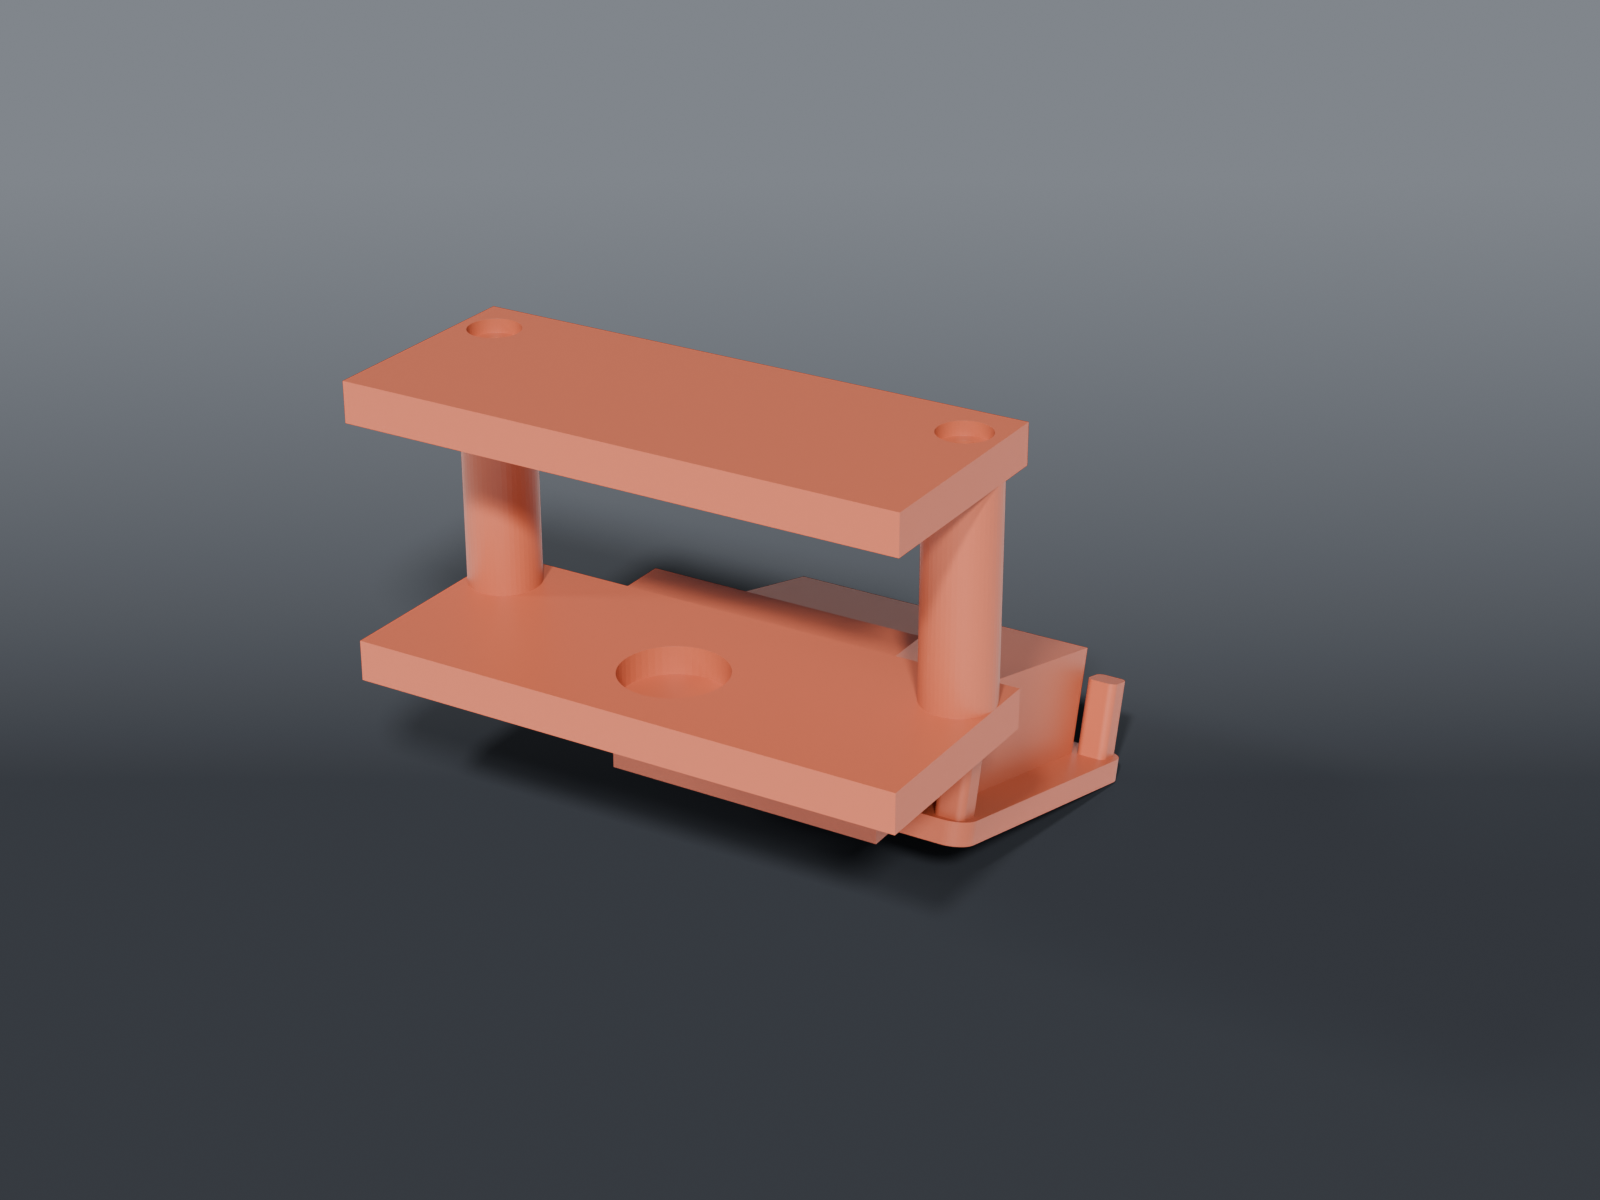
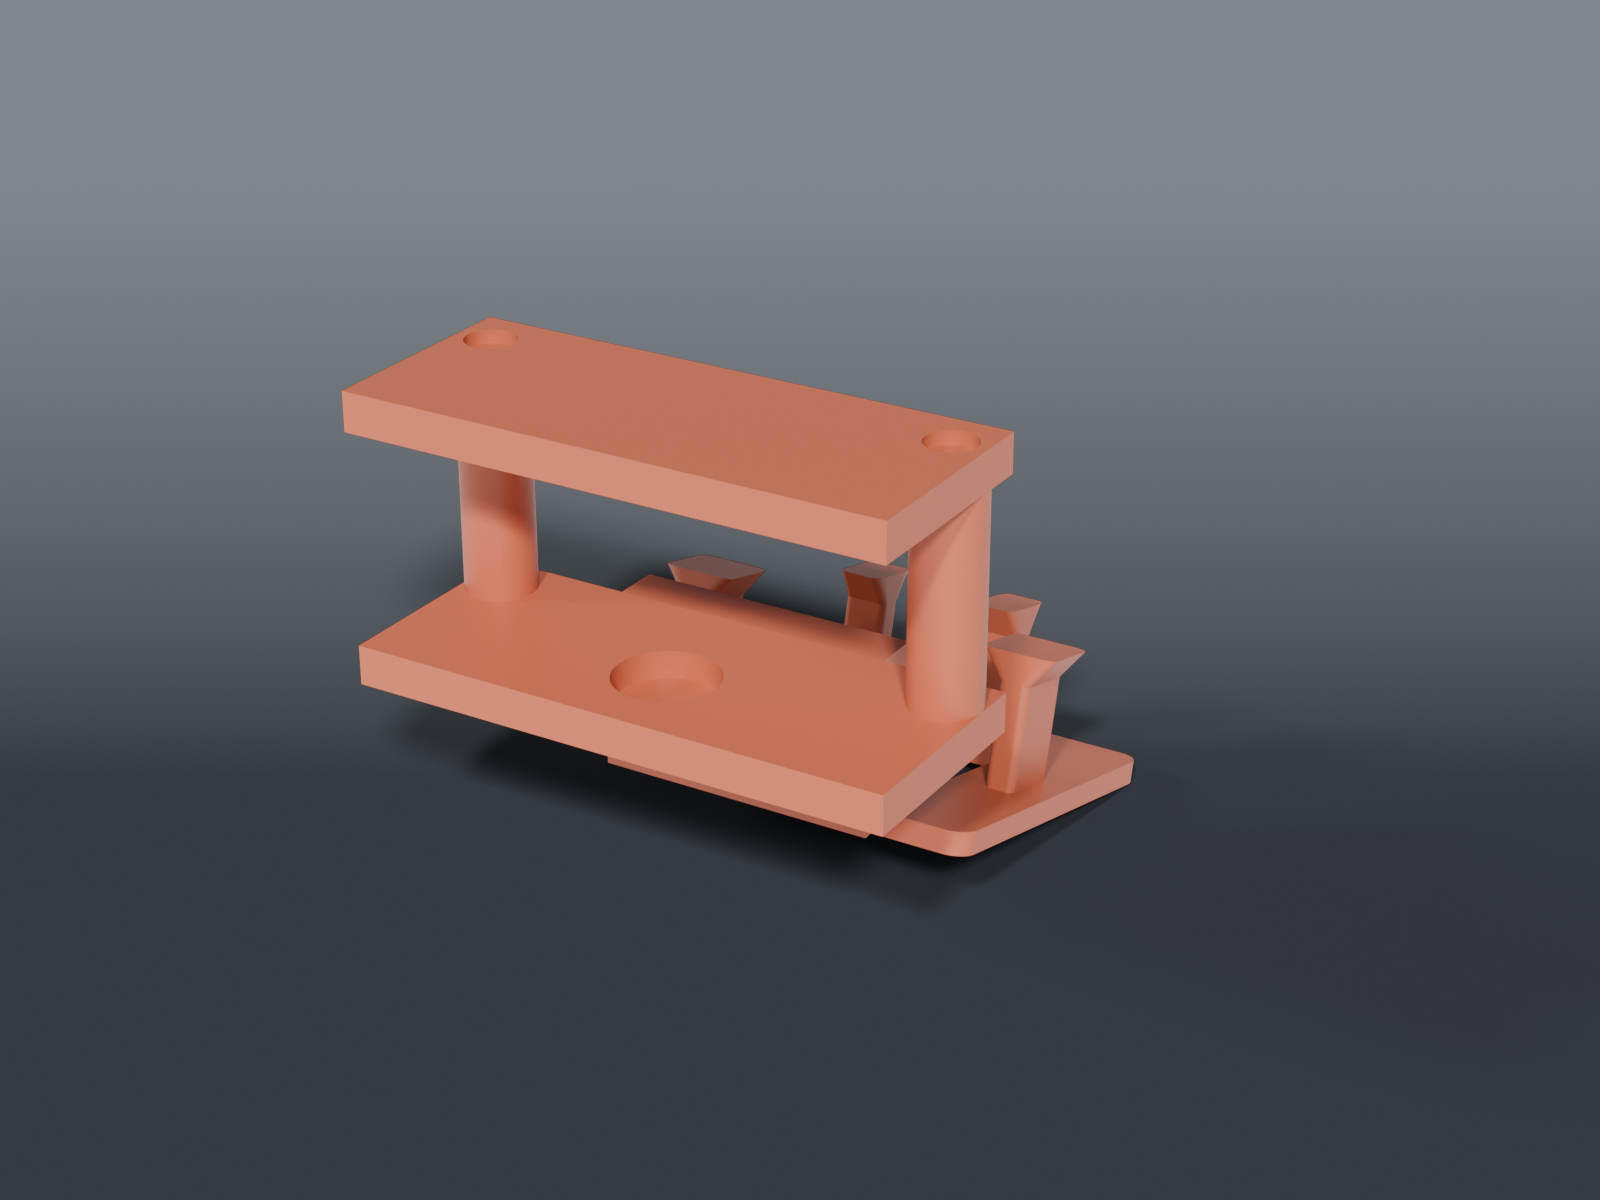
fix(thermal-cam-mount): retention pads on the edge flats, not the corners

diff --git a/thermal-cam-mount/README.md b/thermal-cam-mount/README.md
@@ -60,8 +60,23 @@ lead drop clear.
 |---|---|
 | Tray tilt | **14°** — the reference's 14.1°, rounded |
 | Lens window | 34 × 26 rounded rect |
-| Posts | 4 × 4 mm, 10 mm tall, at the pocket corners |
+| Retention pads | 5, at the **middle of each edge** — 2 × 10 mm long sides, 12 mm inboard, 2 × 6 mm outboard |
+| Pocket clearance | 0.2 mm total, ~0.1 per side |
 | Plug notch | 14 mm, outboard border |
+
+## Print the coupon first
+
+`coupons/cam_fit_coupon.scad` is the tray alone — flat on the bed, no arm, no clamp plates. ~8 g
+against 14 g and four hours for the real mount. Drop the camera in: it should take light thumb
+pressure to seat and stay put when the coupon is turned upside down. Two full mounts have already
+been thrown away for a fit that a coupon would have caught in twenty minutes.
+
+⚠ **The pads are not at the corners, and that is the whole point.** The first printed tray
+fenced the pocket with four 4 mm posts standing at its corners. The camera slid around freely
+inside it, because the body's corners are radiused — a post in a corner touches nothing but air.
+Contact has to land on the flat middle of a side, the one part of the outline whose position does
+not depend on a corner radius nobody has measured. Anything that moves a pad back toward a corner
+reintroduces the failure.
 
 ⚠ **The window is deliberately oversize.** The notes record the thermal lens as "offset toward
 LEFT" and that offset has never been measured. A window cut to a guessed centre would blind the
@@ -106,7 +121,7 @@ Every attempt to `hull()` onto the tilted tray produced a different degeneracy o
 | Hull of two solid blocks | 4 edges |
 
 Bisection put it on the arm-to-tray join every time — tray alone passed, arm alone passed, together
-they failed, with or without the posts and the window.
+they failed, with or without the pads and the window.
 
 A plain box has flat faces. Where it meets the tilted tray, two planes cross at 14° — an honest
 intersection with nothing coincident, coplanar or tangent. It passes.
